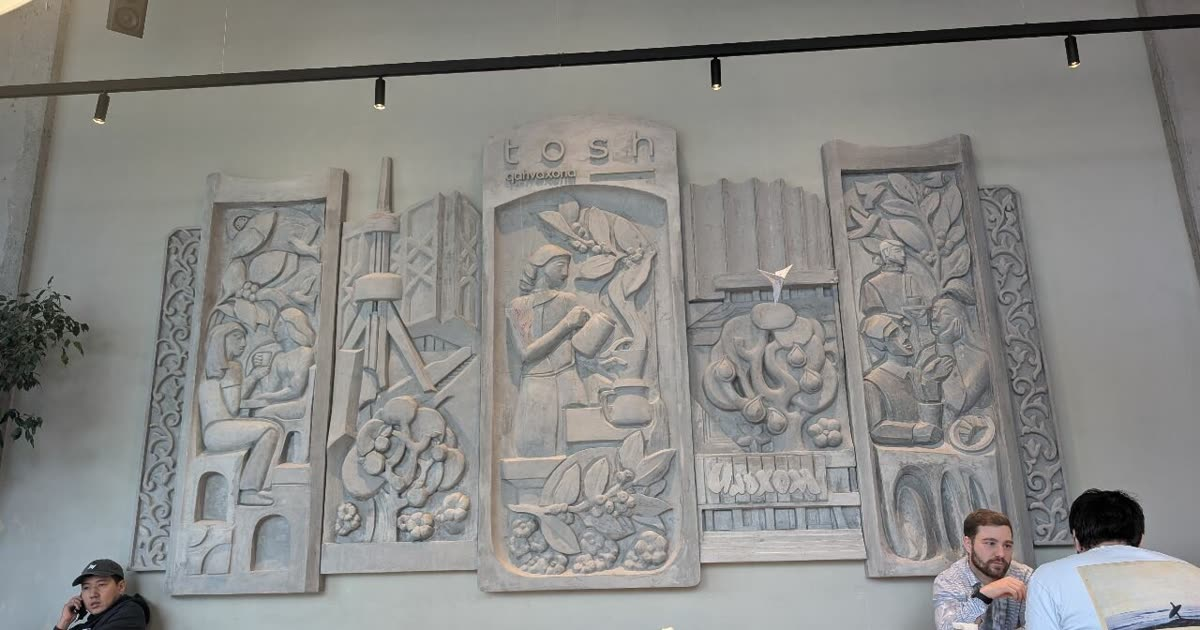
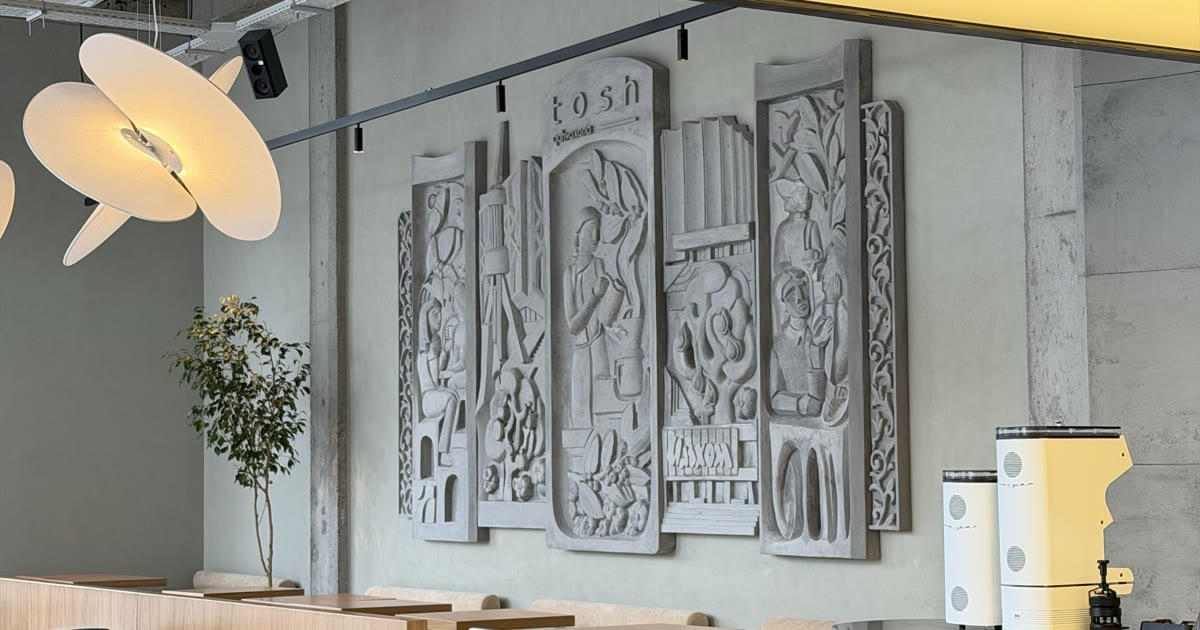
Логотип в SVG, главное фото зала в высоком качестве, узор десертов

diff --git a/index.html b/index.html
@@ -30,9 +30,9 @@
 
   <link rel="preload" href="fonts/commissioner-cyrillic.woff2" as="font" type="font/woff2" crossorigin>
   <link rel="stylesheet" href="fonts/fonts.css">
-  <link rel="stylesheet" href="styles.css?v=6">
-  <script src="i18n.js?v=6" defer></script>
-  <script src="script.js?v=6" defer></script>
+  <link rel="stylesheet" href="styles.css?v=8">
+  <script src="i18n.js?v=8" defer></script>
+  <script src="script.js?v=8" defer></script>
 </head>
 <body>
   <a class="skip" href="#menu" data-i18n="hero.menu">Смотреть меню</a>
@@ -43,7 +43,7 @@
 
   <header class="top">
     <div class="wrap top__row">
-      <a class="brand" href="#top" aria-label="Tosh qahvaxona">tosh</a>
+      <a class="brand" href="#top" aria-label="Tosh qahvaxona"><img class="brand__logo" src="img/favicon.svg" width="34" height="34" alt="">tosh</a>
       <nav class="top__nav" aria-label="Разделы">
         <a href="#about" data-i18n="nav.about">О нас</a>
         <a href="#atmosphere" data-i18n="atmos.title">Атмосфера</a>
@@ -76,18 +76,19 @@
         </div>
       </div>
 
-      <!-- Три фото из сторис Tosh: фирменный завтрак, бариста-сет и V60 -->
-      <ul class="hero__photos">
-        <li><img src="img/hero-breakfast.webp" width="960" height="1200" alt="Завтрак TOSH: горячая лепёшка, каймак и джем на стальном подносе" data-i18n-alt="hero.alt1" fetchpriority="high"></li>
-        <li><img src="img/hero-set.webp" width="960" height="1200" alt="Бариста-сет: эспрессо, фильтр и флэт уайт" data-i18n-alt="hero.alt2"></li>
-        <li><img src="img/hero-v60.webp" width="960" height="1200" alt="Кофе V60 на стальном подносе" data-i18n-alt="hero.alt3"></li>
-      </ul>
+      <!-- Зал Tosh со стеной барельефов (фото гостя с Google Карт, 1800 px) -->
+      <figure class="hero__photo">
+        <picture>
+          <source media="(min-width: 768px)" srcset="img/hero-wide.webp" width="1800" height="900">
+          <img src="img/hero-tall.webp" width="1080" height="1350" alt="Светлый зал Tosh: стена гипсовых барельефов с надписью tosh, кресла и барные табуреты" data-i18n-alt="hero.alt" fetchpriority="high">
+        </picture>
+      </figure>
     </section>
 
     <!-- О кофейне -->
     <section class="about wrap" id="about" aria-labelledby="about-title">
       <figure class="about__photo">
-        <img src="img/bar.webp" width="699" height="932" alt="Гипсовые барельефы с надписью tosh в зале кофейни" data-i18n-alt="about.alt" loading="lazy">
+        <img src="img/bar.webp" width="900" height="1200" alt="Яйца TOSH и кофе на столе, рядом синие кресла mid‑century" data-i18n-alt="about.alt" loading="lazy">
       </figure>
       <div class="about__body">
         <h2 id="about-title" data-i18n="about.title">Ташкент, который мы любим</h2>
@@ -159,6 +160,7 @@
         <h2 id="desserts-title" data-i18n="desserts.title">Десерты</h2>
         <p class="section-lead" data-i18n="desserts.lead">Печём к кофе: печенье, рулеты, брауни и торты.</p>
       </div>
+      <div class="band band--cocoa desserts__band" aria-hidden="true"></div>
       <ul class="dishes dishes--five">
         <li class="dish dish--small">
           <img src="img/d-cookie.webp" width="720" height="900" alt="" loading="lazy">
@@ -236,7 +238,7 @@
   <footer class="footer">
     <div class="footer__band" aria-hidden="true"></div>
     <div class="wrap footer__row">
-      <p class="brand brand--small">tosh</p>
+      <p class="brand brand--small"><img class="brand__logo" src="img/favicon.svg" width="28" height="28" alt="">tosh</p>
       <p><span data-i18n="footer.city">Ташкент</span>, Avliyo Ota, 128</p>
       <p><a class="link" href="https://www.instagram.com/tosh.coffee/" target="_blank" rel="noopener">@tosh.coffee</a></p>
     </div>

diff --git a/i18n.js b/i18n.js
@@ -28,9 +28,7 @@ window.TOSH_TEXT = {
   ),
   "hero.menu": t("Смотреть меню", "Menyuni koʻrish", "See the menu"),
   "hero.route": t("Как добраться", "Qanday borish", "Get directions"),
-  "hero.alt1": t("Завтрак TOSH: горячая лепёшка, каймак и джем на стальном подносе", "TOSH nonushtasi: poʻlat patnisda issiq non, qaymoq va jem", "TOSH breakfast: hot flatbread, kaymak and jam on a steel tray"),
-  "hero.alt2": t("Бариста-сет: эспрессо, фильтр и флэт уайт", "Barista set: espresso, filtr va flat white", "Barista set: espresso, filter and flat white"),
-  "hero.alt3": t("Кофе V60 на стальном подносе", "Poʻlat patnisda V60 qahva", "V60 coffee on a steel tray"),
+  "hero.alt": t("Светлый зал Tosh: стена гипсовых барельефов с надписью tosh, кресла и барные табуреты", "Tosh yorugʻ zali: tosh yozuvli gips barelyeflar devori, kreslolar va bar kursilari", "The bright Tosh hall: a wall of plaster reliefs with the word tosh, armchairs and bar stools"),
 
   "status.open": t("Открыто до 21:00", "Ochiq, 21:00 gacha", "Open until 21:00"),
   "status.kitchen": t("кухня до 20:00", "oshxona 20:00 gacha", "kitchen until 20:00"),
@@ -48,7 +46,7 @@ window.TOSH_TEXT = {
     "«Tosh» — tosh, Toshkent esa — tosh shahar.",
     "In Uzbek, tosh means stone, and Toshkent is the city of stone."
   ),
-  "about.alt": t("Гипсовые барельефы с надписью tosh в зале кофейни", "Qahvaxona zalidagi tosh yozuvli gips barelyeflar", "Plaster reliefs with the word tosh in the café hall"),
+  "about.alt": t("Яйца TOSH и кофе на столе, рядом синие кресла mid‑century", "Stolda TOSH tuxumlari va qahva, yonida koʻk mid‑century kreslolar", "TOSH eggs and coffee on the table, with blue mid‑century armchairs"),
   "f1.title": t("Своя обжарка", "Oʻzimiz qovuramiz", "Roasted in-house"),
   "f1.text": t(
     "В основе — зерно собственной обжарки и современное оборудование. Эспрессо, V60, батч-брю и фильтр-шот.",
@@ -415,7 +413,7 @@ window.TOSH_MENU = [
   },
   {
     id: "desserts",
-    pattern: "rose",
+    pattern: "cocoa",
     label: t("Десерты", "Desertlar", "Desserts"),
     groups: [
       {

diff --git a/styles.css b/styles.css
@@ -163,6 +163,9 @@ h3 {
 }
 
 .brand {
+  display: inline-flex;
+  align-items: center;
+  gap: 0.75rem;
   font-size: 1.375rem;
   font-weight: 400;
   letter-spacing: 0.32em;
@@ -281,13 +284,7 @@ h3 {
   gap: 0.75rem;
 }
 
-/* Три фото из сторис. На телефоне — одно (завтрак TOSH), на планшете и ПК — все три в ряд */
-.hero__photos {
-  display: grid;
-  gap: 0.75rem;
-}
-.hero__photos li:not(:first-child) { display: none; }
-.hero__photos img {
+.hero__photo img {
   width: 100%;
   aspect-ratio: 4 / 5;
   object-fit: cover;
@@ -483,6 +480,8 @@ h3 {
 .band--rose { background-image: url("img/pattern-rose.webp"); }
 .band--ochre { background-image: url("img/pattern-ochre.webp"); }
 .band--lattice { background-image: url("img/pattern-lattice.webp"); }
+.band--cocoa { background-image: url("img/pattern-cocoa.webp"); }
+.desserts__band { margin-top: 2rem; height: 40px; }
 /* Узор кухни отражён вниз */
 .panel .band--lattice { transform: scaleY(-1); }
 
@@ -657,6 +656,7 @@ h3 {
   color: var(--ink-2);
   font-size: 0.9375rem;
 }
+.brand__logo { flex: none; border-radius: 4px; }
 .brand--small {
   color: var(--ink);
   font-size: 1.125rem;
@@ -677,8 +677,7 @@ h3 {
   .top__nav { display: flex; }
   .lang { margin-left: 0; }
 
-  .hero__photos { grid-template-columns: repeat(3, minmax(0, 1fr)); gap: 1rem; }
-  .hero__photos li:not(:first-child) { display: block; }
+  .hero__photo img { aspect-ratio: 2 / 1; }
   .hero { gap: 2.5rem; }
   .wordmark__word { font-size: clamp(5.5rem, 17vw, 13rem); }
   /* На широком экране: слово, под ним текст и кнопки в одну строку, ниже фото */
